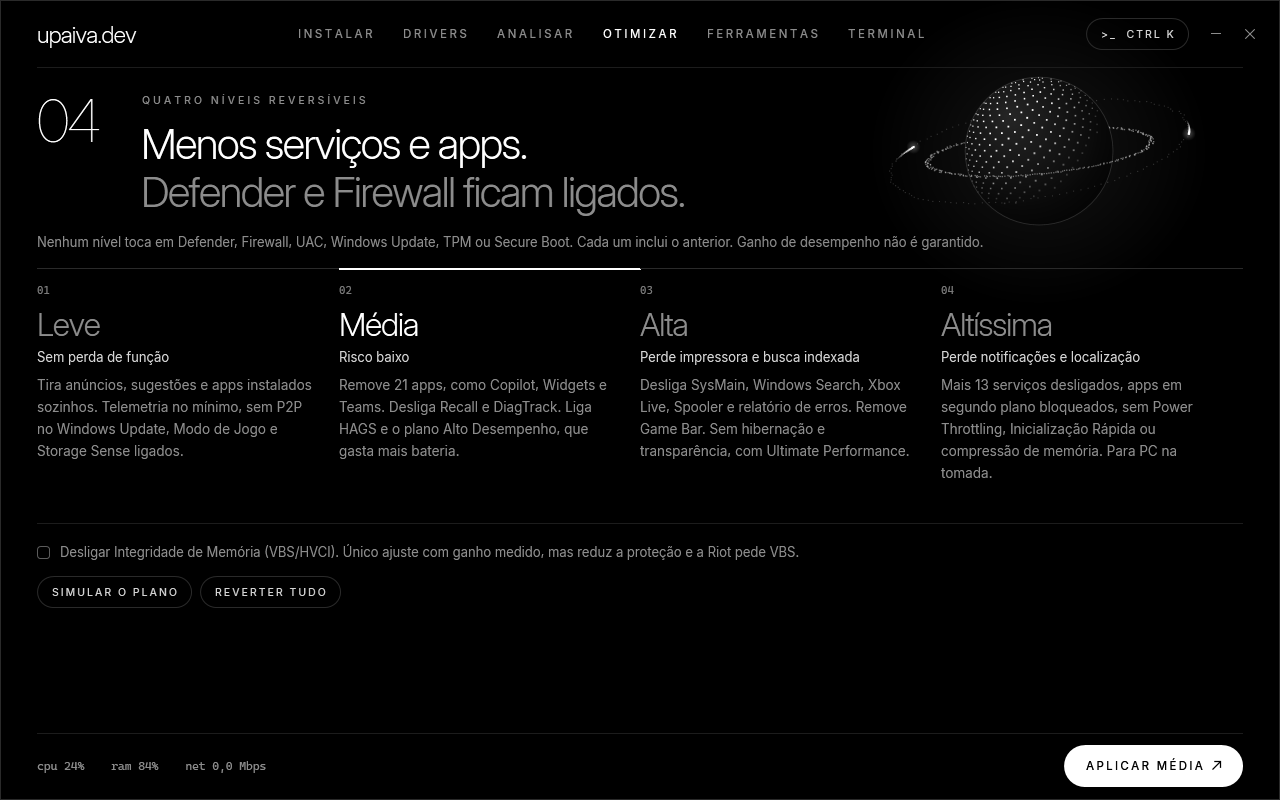
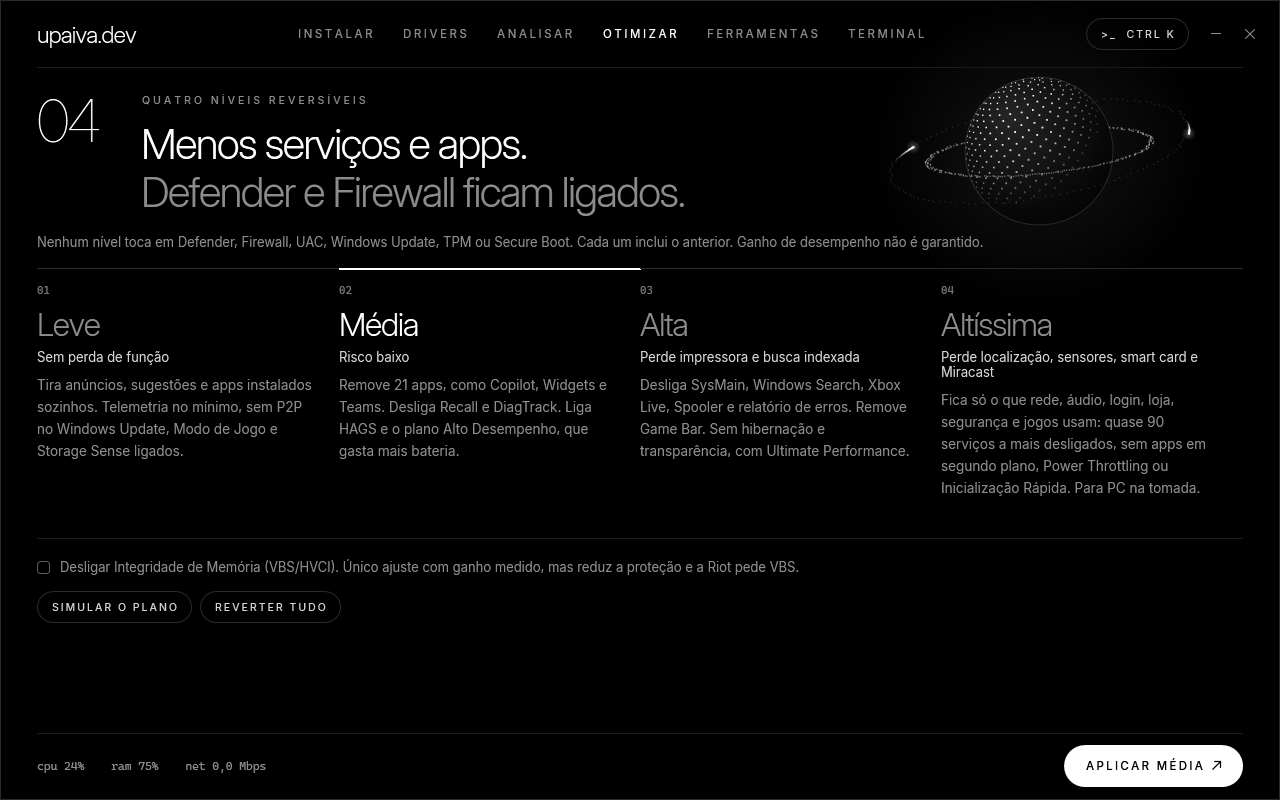
feat: instalacao paralela, Altissima ampliada e Limpar disco completo
Instalacao simultanea: ate 4 programas juntos conforme os nucleos, so enquanto
CPU < 75%, RAM < 85% e ha folga de disco. Dependencias e MSI entram em fila,
porque o Windows Installer roda um por vez. Cada programa roda em processo
proprio e um que morre vira FALHOU.

Altissima: de 13 para ~100 servicos do Windows numa lista fechada, com deteccao
de Bluetooth e rede movel e servicos por usuario tratados no modelo. Uma lista
de intocaveis (Defender, rede, audio, login, loja, Windows Update, Hyper-V, o
que jogos usam, e os que a Microsoft pede para nao desligar) aborta o plano
antes de qualquer alteracao se houver conflito. Servicos de terceiros nunca
entram. Cada desligamento e conferido: so conta como feito se o Windows aceitou.

Limpar disco: temporarios, Lixeira, cache do Windows Update, componentes antigos
(DISM), Delivery Optimization, logs, miniaturas e cache dos navegadores, com
confirmacao e o espaco liberado a vista. Nao toca no registro de execucao do
sistema.

Corrige um defeito real: New-Item -Force numa chave de registro existente
apagava os valores dela; agora so cria o que falta.

Changed region(s): [[0.7188, 0.4375, 0.9375, 0.625], [0.0312, 0.6562, 0.625, 0.7812]]

diff --git a/app/ui.xaml b/app/ui.xaml
@@ -381,6 +381,7 @@
             <TextBlock x:Name="Telemetria" FontFamily="Cascadia Mono, Consolas" FontSize="11.5" Foreground="{StaticResource Mudo}" VerticalAlignment="Center"/>
             <TextBlock x:Name="Aviso" Grid.Column="1" Foreground="#FF6B6B" FontSize="12" TextWrapping="Wrap" VerticalAlignment="Center" Margin="26,0,20,0" Visibility="Collapsed"/>
             <StackPanel Grid.Column="2" Orientation="Horizontal" VerticalAlignment="Center">
+              <CheckBox x:Name="OpcaoParalelo" Content="Em paralelo" IsChecked="True" VerticalAlignment="Center" Margin="0,0,18,0" Visibility="Collapsed" ToolTip="Instala vários programas juntos enquanto CPU e RAM permitem. Instaladores MSI esperam a vez."/>
               <Button x:Name="Relatorio" Style="{StaticResource BotaoPilula}" Content="Ver relatório" Margin="0,0,8,0" Visibility="Collapsed"/>
               <Button x:Name="Cancelar" Style="{StaticResource BotaoPilula}" Content="Cancelar" Margin="0,0,8,0" Visibility="Collapsed"/>
               <Button x:Name="Principal" Style="{StaticResource BotaoPrincipal}" Content="Instalar"/>

diff --git a/app/app.cs b/app/app.cs
@@ -347,9 +347,11 @@ class Aplicativo {
         var b = C<Button>("Principal");
         b.Visibility = Visibility.Visible;
         b.Tag = null;
-        if (emAndamento) { b.Content = "Em execução"; b.IsEnabled = false; return; }
+        if (emAndamento) { b.Content = "Em execução"; b.IsEnabled = false; C<CheckBox>("OpcaoParalelo").Visibility = Visibility.Collapsed; return; }
+        C<CheckBox>("OpcaoParalelo").Visibility = Visibility.Collapsed;
         if (abaAtual == "Terminal") { if (terminado) { b.Content = "Voltar"; b.Tag = "sem"; b.IsEnabled = true; } else b.Visibility = Visibility.Collapsed; return; }
         bool instDrivers = podeAlterar && driversMarcaveis.Count > 0, corrigir = podeAlterar && achados.Count > 0;
+        C<CheckBox>("OpcaoParalelo").Visibility = abaAtual == "Instalar" && podeAlterar ? Visibility.Visible : Visibility.Collapsed;
         C<Button>("BuscarDeNovo").Visibility = instDrivers ? Visibility.Visible : Visibility.Collapsed;
         C<Button>("AnalisarDeNovo").Visibility = corrigir ? Visibility.Visible : Visibility.Collapsed;
         if (abaAtual == "Instalar") { b.IsEnabled = podeAlterar; Recontar(); }
@@ -603,6 +605,8 @@ class Aplicativo {
         var todos = grupos.SelectMany(g => g.Itens).ToList();
         File.WriteAllLines(Path.Combine(dados, "pular.txt"), todos.Where(i => !i.Catalogo && i.Caixa.IsChecked != true).SelectMany(i => i.Padroes), new UTF8Encoding(false));
         File.WriteAllLines(Path.Combine(dados, "catalogo.txt"), todos.Where(i => i.Catalogo && i.Caixa.IsChecked == true).Select(i => i.Id), new UTF8Encoding(false));
+        string arqParalelo = Path.Combine(dados, "paralelo.txt");
+        if (C<CheckBox>("OpcaoParalelo").IsChecked == true) File.WriteAllText(arqParalelo, "1"); else if (File.Exists(arqParalelo)) File.Delete(arqParalelo);
         total = todos.Where(i => i.Caixa.IsChecked == true).Sum(i => i.Peso);
         abaDepois = "Instalar"; tipoExec = "instalar";
         Executar("instalar.ps1", "", false, "Instalando.");
@@ -748,7 +752,7 @@ class Aplicativo {
         Nivel(p, "leve", "01", "Leve", "Sem perda de função", "Tira anúncios, sugestões e apps instalados sozinhos. Telemetria no mínimo, sem P2P no Windows Update, Modo de Jogo e Storage Sense ligados.", false);
         Nivel(p, "media", "02", "Média", "Risco baixo", "Remove 21 apps, como Copilot, Widgets e Teams. Desliga Recall e DiagTrack. Liga HAGS e o plano Alto Desempenho, que gasta mais bateria.", true);
         Nivel(p, "alta", "03", "Alta", "Perde impressora e busca indexada", "Desliga SysMain, Windows Search, Xbox Live, Spooler e relatório de erros. Remove Game Bar. Sem hibernação e transparência, com Ultimate Performance.", false);
-        Nivel(p, "altissima", "04", "Altíssima", "Perde notificações e localização", "Mais 13 serviços desligados, apps em segundo plano bloqueados, sem Power Throttling, Inicialização Rápida ou compressão de memória. Para PC na tomada.", false);
+        Nivel(p, "altissima", "04", "Altíssima", "Perde localização, sensores, smart card e Miracast", "Fica só o que rede, áudio, login, loja, segurança e jogos usam: quase 90 serviços a mais desligados, sem apps em segundo plano, Power Throttling ou Inicialização Rápida. Para PC na tomada.", false);
     }
 
     void Nivel(System.Windows.Controls.Primitives.UniformGrid p, string id, string num, string nome, string risco, string texto, bool marcado) {
@@ -784,7 +788,7 @@ class Aplicativo {
     void MontarFerramentas() {
         var p = C<StackPanel>("Ferramentas");
         Ferramenta(p, "atualizar", "Atualizar todos os programas", "winget upgrade --all --include-unknown");
-        Ferramenta(p, "limpar", "Limpar disco", "purge %TEMP% e %WINDIR%\\Temp, DISM /StartComponentCleanup");
+        Ferramenta(p, "limpar", "Limpar disco", "Temporários, Lixeira, cache do Windows Update, componentes antigos (DISM), logs, miniaturas e cache dos navegadores. Mostra o espaço liberado.");
         Ferramenta(p, "reparar", "Reparar sistema", "DISM /RestoreHealth, sfc /scannow. Pode levar 30 minutos.");
         Ferramenta(p, "rede", "Resetar rede", "ipconfig /flushdns, netsh winsock reset, netsh int ip reset. Pede reinício.");
         Ferramenta(p, "restauracao", "Criar ponto de restauração", "Enable-ComputerRestore, Checkpoint-Computer");
@@ -803,8 +807,12 @@ class Aplicativo {
         var i = acao; var ti = titulo;
         b.Click += delegate {
             if (emAndamento || !podeAlterar) return;
-            abaDepois = "Ferramentas"; tipoExec = "ferramenta"; total = 0;
-            Executar("ferramentas.ps1", "-Acao " + i, true, ti + ".");
+            Action rodar = delegate {
+                abaDepois = "Ferramentas"; tipoExec = "ferramenta"; total = 0;
+                Executar("ferramentas.ps1", "-Acao " + i, true, ti + ".");
+            };
+            if (i == "limpar") Confirmar("Limpar disco?", "Apaga temporários, caches do sistema e dos navegadores, logs antigos e miniaturas, e esvazia a Lixeira. Não toca em arquivos seus, senhas salvas nem no registro de execução do sistema.", "Limpar", rodar);
+            else rodar();
         };
         botoesFerramenta.Add(b);
         p.Children.Add(Fila(g));
@@ -982,7 +990,8 @@ class Aplicativo {
         if (!cancelando) {
             var pend = linhas.Values.Count(x => x.Etiqueta.Text == "[..]");
             // Sem total conhecido nao ha porcentagem honesta para mostrar.
-            TituloExec(Curto(situacao), total > 0 ? ((int)(pct * 100)) + "%" + (pend > 0 ? ", faltam " + pend : "") : "Em andamento.");
+            int ativos = linhas.Values.Count(x => x.Etiqueta.Text == "[>>]");
+            TituloExec(ativos > 1 ? ativos + " instalando juntos." : Curto(situacao), total > 0 ? ((int)(pct * 100)) + "%" + (pend > 0 ? ", faltam " + pend : "") : "Em andamento.");
         }
     }
 

diff --git a/README.md b/README.md
@@ -42,6 +42,7 @@ O **upaiva.dev** troca isso por uma tela. Você escolhe o que entra, acompanha o
 - **Perfis prontos:** Completo, Básico, Gamer, Dev e IA, além de salvar e carregar a sua seleção
 - **Fila visível** com o estado e o tempo de cada item
 - **Progresso ponderado:** um pacote pesado conta mais que um utilitário pequeno
+- **Instalação simultânea:** até 4 programas juntos, conforme os núcleos do PC e enquanto CPU e RAM têm folga. Instaladores MSI esperam a vez, porque o Windows só roda um por vez
 - **Cancelar a qualquer momento**, encerrando também os processos filhos
 
 ### Drivers
@@ -59,12 +60,14 @@ Varredura **somente leitura** de segurança e saúde: Defender, Firewall, UAC, S
 | **Leve** | Qualquer PC: tira anúncios, sugestões e apps instalados sozinhos | Nenhuma função perdida |
 | **Média** | Remove 21 apps, Recall e DiagTrack, e liga HAGS e Alto Desempenho | Mais consumo de bateria |
 | **Alta** | Desliga SysMain, Windows Search, Xbox Live e Spooler | Sem impressora e sem busca indexada |
-| **Altíssima** | Mais 13 serviços e apps em segundo plano bloqueados | Sem notificações e localização. Para PC na tomada |
+| **Altíssima** | Quase 90 serviços a mais desligados e apps em segundo plano bloqueados. Fica só o que rede, áudio, login, loja, segurança e jogos usam | Sem localização, sensores, smart card e Miracast. Para PC na tomada |
 
-Os níveis são cumulativos, somam mais de 90 ações no topo e podem ser **simulados antes de aplicar**.
+Os níveis são cumulativos, somam mais de 170 ações no topo e podem ser **simulados antes de aplicar**. A Altíssima usa uma lista fechada de serviços do Windows, com detecção de Bluetooth e rede móvel, e uma lista de intocáveis que aborta o plano antes de qualquer alteração se houver conflito. Serviços de terceiros, como GPU, Vanguard, Steam e VPN, nunca são tocados.
 
 ### Ferramentas
-Atualizar todos os programas, limpar disco, reparar o sistema com DISM e SFC, resetar a rede, criar ponto de restauração e **reinstalar pela Microsoft Store os apps removidos**.
+Atualizar todos os programas; **limpar disco** (temporários, Lixeira, cache do Windows Update, componentes antigos via DISM, logs, miniaturas e cache dos navegadores, com confirmação e o espaço liberado à vista); reparar o sistema com DISM e SFC; resetar a rede; criar ponto de restauração; e **reinstalar pela Microsoft Store os apps removidos**.
+
+> A limpeza age só em arquivos descartáveis e no seu cache. Não mexe no registro de execução do sistema (Amcache, Shimcache, BAM, USN Journal, Event Log) — isso não é limpeza de disco e serve só para esconder o que rodou na máquina.
 
 ### Terminal e Ctrl K
 
@@ -143,12 +146,12 @@ INSTALADOR/     O que o .exe usa em execução
 
 | | |
 |---|---|
-| **Testado de ponta a ponta** | Compilação, análise real, busca real de drivers, simulação da Altíssima, restauração das configs em pasta temporária, travas contra rodar no PC de origem e todo o fluxo da interface, incluindo o cancelamento, com instalador de teste |
-| **Falta testar em máquina real** | Instalação real dos programas, instalação de drivers, aplicar e reverter níveis, correções da análise, ferramentas, reinstalação de apps e cancelamento em processo elevado |
+| **Testado de ponta a ponta** | Compilação, análise real, busca real de drivers, simulação da Altíssima, restauração das configs em pasta temporária, travas contra rodar no PC de origem e todo o fluxo da interface, incluindo o cancelamento e o escalonador da instalação simultânea, com instalador de teste |
+| **Falta testar em máquina real** | Instalação real dos programas, instalação de drivers, aplicar e reverter níveis, instalação simultânea com instaladores reais, correções da análise, ferramentas, reinstalação de apps e cancelamento em processo elevado |
 
-O ganho de desempenho dos níveis não foi medido.
+O ganho de desempenho dos níveis não foi medido. Na Altíssima, a maior parte dos serviços da lista já fica parada até ser chamada, então espere pouco ganho e confira na simulação o que muda no seu PC.
 
-> **Repositório privado de propósito.** `INSTALADOR/config` traz skills e configurações pessoais. Antes de torná-lo público, remova essa pasta **e o histórico dela**.
+> `INSTALADOR/config` traz o snapshot de skills e configurações do autor, sem logins nem tokens. Para usar o app com as suas, troque essa pasta.
 
 ---
 
